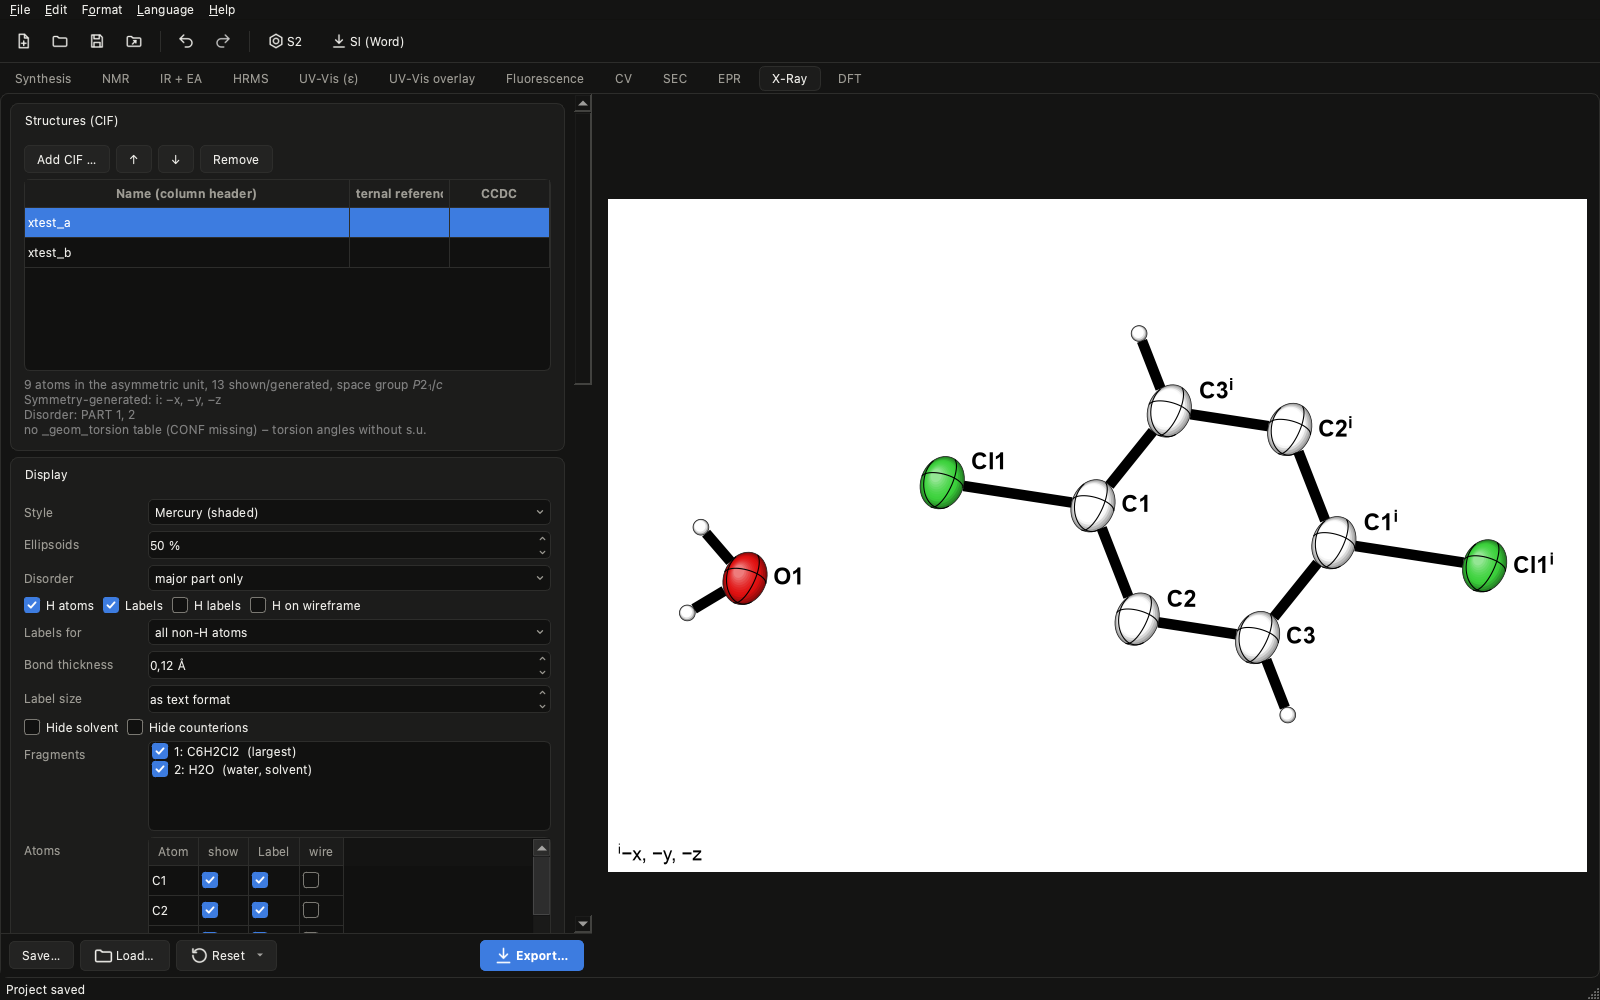
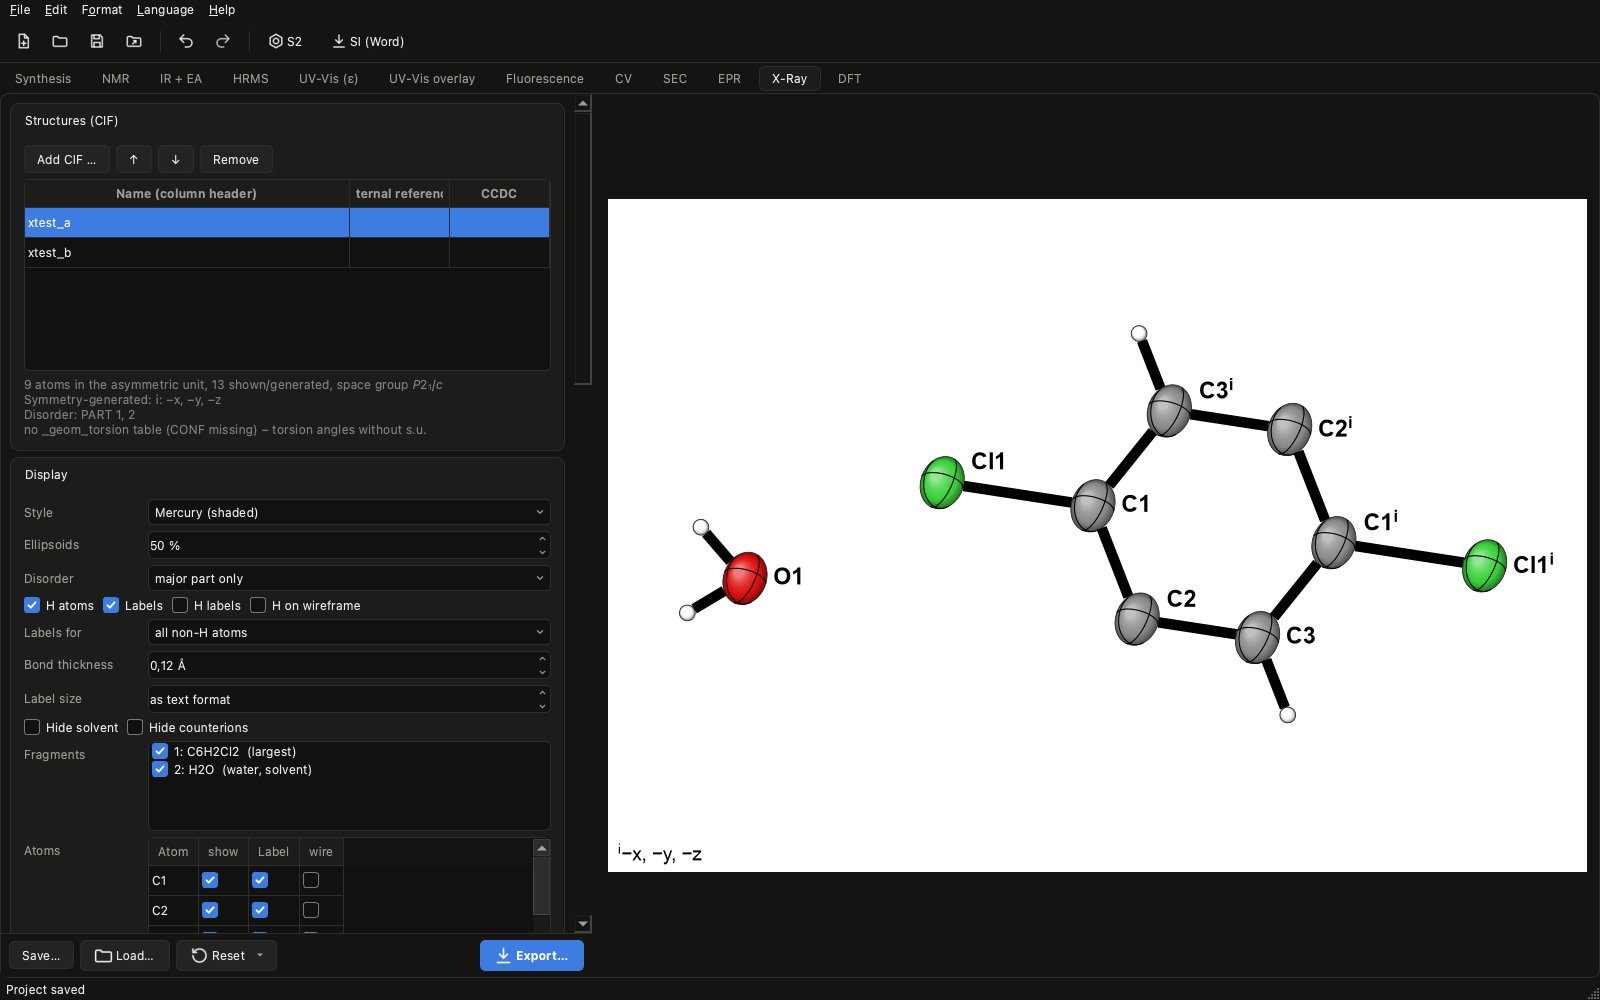
Ball-and-stick styles rebuilt after the user's reference images (shadow rim + highlight, rods into spheres, highlight streak); Mercury keeps grey carbon

diff --git a/uvvis_xray.py b/uvvis_xray.py
@@ -317,8 +317,6 @@ BOND_TOL = 0.45
 
 
 def default_color(el, style=None):
-    if style == "mercury" and el == "C":           # Mercury-Ellipsoide: Kohlenstoff weiß (grau schattiert)
-        return "#FFFFFF"
     if el in OLEX2_COLORS:
         return OLEX2_COLORS[el]
     if el in METALS:
@@ -1420,36 +1418,38 @@ def shade_colors(color, n):
 STYLES = ("mercury", "flat", "ballstick", "depth")
 BALL_STYLES = ("ballstick", "depth")      # Kugel-Stab: Kugeln nach Element statt Ellipsoiden, Stäbe in Atomfarben
 DEPTH_A = 6.0                             # Tiefe (Å), über die der Stil „depth“ voll aufhellt
-# Stab als Zylinder: übereinanderliegende Linien abnehmender Breite, Rand dunkel -> Mitte hell (Anteil, Helligkeit)
-ROD_LAYERS = ((1.0, -0.45), (0.86, -0.25), (0.7, 0.0), (0.52, 0.18), (0.34, 0.36), (0.18, 0.55))
+DEPTH_MAX = 0.6                           # … bis 60 % zum Weiß
+# Nachbau der Vorlagen: Kugel = Schattenrand unten rechts (äußere Schichten, zum Licht hin verkleinert), Grundfarbe,
+# Glanzpunkt oben links. Je Schicht (Anteil am Radius, Versatz zum Licht in r, Art, Wert): "tone" = Grundfarbe × (1 + Wert),
+# "blend" = Grundfarbe → Weiß um Wert.
+SPHERE_SPEC = {
+    "ballstick": ([(1.0 - 0.025 * i, 0.025 * i * 1.1, "tone", -0.6 + 0.075 * i) for i in range(9)]
+                  + [(0.34 - 0.04 * i, 0.42, "blend", 0.1 + 0.13 * i) for i in range(7)]),
+    "depth": ([(1.0 - 0.045 * i, 0.045 * i * 0.8, "tone", -0.45 + 0.05625 * i) for i in range(9)]
+              + [(0.32 - 0.06 * i, 0.36, "blend", 0.06 + 0.07 * i) for i in range(4)]),
+}
+# Stab = Zylinder aus übereinanderliegenden Linien (Anteil der Stabbreite, Versatz zum Licht in Stabbreiten, Art, Wert):
+# dunkler Rand, Schattenseite, Grundfarbe, schmaler Glanzstreifen an der Lichtseite
+ROD_SPEC = {
+    "ballstick": ((1.0, 0.0, "tone", -0.8), (0.92, 0.0, "tone", -0.32), (0.84, 0.02, "tone", -0.18),
+                  (0.74, 0.05, "tone", -0.07), (0.62, 0.08, "tone", 0.0), (0.16, 0.3, "blend", 0.85)),
+    "depth": ((1.0, 0.0, "tone", -0.38), (0.86, 0.03, "tone", -0.22), (0.72, 0.06, "tone", -0.1),
+              (0.56, 0.09, "tone", 0.0), (0.3, 0.16, "blend", 0.18)),
+}
+ROD_W = {"ballstick": 0.2, "depth": 0.36}           # Stabdicke (Å) wie in den Vorlagen
+BALL_R = {"ballstick": 0.45, "depth": 0.42}         # Kugelradius = Faktor × kovalenter Radius
 
 
-def ball_radius(el):
+def ball_radius(el, style="ballstick"):
     """Kugelradius im Kugel-Stab-Modell (Å): proportional zum kovalenten Radius, H nicht zu klein."""
-    return max(0.2, 0.42 * COV.get(el, 0.76))
+    return max(0.2, BALL_R.get(style, 0.45) * COV.get(el, 0.76))
 
 
-def gloss_colors(color, n):
-    """Glänzende Kugel (wie IboView/CYLview): dunkler Rand, Grundfarbe, kräftiger weißer Glanzpunkt oben links."""
-    base = np.array(to_rgb(color))
-    out = []
-    for t in np.linspace(0, 1, n):
-        if t < 0.45:
-            c = base * (0.42 + 0.58 * t / 0.45)
-        else:
-            c = base + (1 - base) * 0.92 * ((t - 0.45) / 0.55) ** 2.2
-        out.append(tuple(np.clip(c, 0, 1)))
-    return out
-
-
-def matte_colors(color, n, fog=0.0):
-    """Matte Kugel mit Tiefe: weicher Verlauf, nach hinten zum Weiß hin aufgehellt (fog 0 … 1)."""
-    base = np.array(to_rgb(color))
-    out = []
-    for t in np.linspace(0, 1, n):
-        c = base * (0.7 + 0.3 * t / 0.4) if t < 0.4 else base + (1 - base) * 0.32 * ((t - 0.4) / 0.6) ** 1.5
-        out.append(tuple(np.clip(c + (1 - c) * fog, 0, 1)))
-    return out
+def spec_color(base, kind, val, fog=0.0):
+    base = np.array(to_rgb(base))
+    c = base * (1 + val) if kind == "tone" else base + (1 - base) * val
+    c = np.clip(c, 0, 1)
+    return tuple(np.clip(c + (1 - c) * fog, 0, 1))
 
 
 def fogged(color, fog):
@@ -1503,9 +1503,11 @@ def wire_color(color):
     return "#9a9a9a" if 0.299 * r + 0.587 * g + 0.114 * b > 0.85 else color
 
 
-def _half(xs, ys, half):
-    """Hälfte einer Bindung (0 = zum ersten Atom, 1 = zum zweiten)."""
-    xm, ym = (xs[0] + xs[1]) / 2, (ys[0] + ys[1]) / 2
+def _half(xs, ys, half, overlap=0.0):
+    """Hälfte einer Bindung (0 = zum ersten Atom, 1 = zum zweiten); overlap (Anteil der Länge) über die Mitte hinaus,
+    damit zwischen zwei Stabhälften keine Naht sichtbar ist."""
+    f = 0.5 + overlap if half == 0 else 0.5 - overlap
+    xm, ym = xs[0] + f * (xs[1] - xs[0]), ys[0] + f * (ys[1] - ys[0])
     return ([xs[0], xm], [ys[0], ym]) if half == 0 else ([xm, xs[1]], [ym, ys[1]])
 
 
@@ -1543,8 +1545,9 @@ class XrayFigure:
         self.style = opts.get("style", "mercury")
         self.ball = self.style in BALL_STYLES
         # Bindungsdicke in Å (Mercury: Zylinder); Kugel-Stab: kräftige Stäbe
-        self.bond_w = float(opts.get("bond_w", 0.08)) * (2.6 if self.ball else 1.0)
-        self.bond_fac = {}                                       # Linie -> Anteil der Stabbreite (schattierte Stäbe)
+        self.bond_w = ROD_W[self.style] if self.ball else float(opts.get("bond_w", 0.08))
+        self.bond_fac, self.bond_off, self.bond_ovl = {}, {}, {}  # Linie -> Anteil der Stabbreite / Versatz (Å) / Überlappung
+        self.atom_rods = {}                                      # Kugel-Stab: Atom -> Linien seiner Stabhälften
         self.lw_edge = max(0.4, 0.6 * sc)
         self.atom_art, self.bond_art, self.sel_art, self.bond_lines = {}, [], [], {}
         self.auto_pos = {}
@@ -1608,13 +1611,17 @@ class XrayFigure:
             if it["k"] in self.wire:                       # Drahtmodell: kein Ellipsoid, kleiner Klickbereich
                 it.update(w=0.24, h=0.24, ang=0.0, iso=True, kind="wire", curves=[])
             elif self.ball:                                # Kugel-Stab: Kugel nach Element, keine Hauptachsen
-                r = ball_radius(self.mol.atoms[it["k"]]["el"])
+                r = ball_radius(self.mol.atoms[it["k"]]["el"], self.style)
                 it.update(w=2 * r, h=2 * r, ang=0.0, iso=True, curves=[])
         scene["by_k"] = {it["k"]: it for it in scene["atoms"]}
         return scene
 
     def _bond_xy(self, a, b):
         A, B = self.scene["by_k"][a], self.scene["by_k"][b]
+        if self.ball and a not in self.wire and b not in self.wire:
+            # Kugel-Stab: Stab von Mitte zu Mitte, die Kugel verdeckt das Ende (jede Hälfte liegt direkt unter ihrem
+            # Atom, siehe _zorders) – sonst stehen die Ecken dicker Stäbe über den Kugelrand
+            return [A["x"], B["x"]], [A["y"], B["y"]]
         dx, dy = B["x"] - A["x"], B["y"] - A["y"]
         L = math.hypot(dx, dy)
         ra = 0.0 if A.get("kind") == "wire" else _radius_along(A, dx, dy)
@@ -1631,10 +1638,10 @@ class XrayFigure:
         base = _ellipse_verts(it["x"], it["y"], it["w"], it["h"], it["ang"])
         if self.style == "flat":
             return [base, base]
-        if self.style == "ballstick":                      # Glanzpunkt kleiner und weiter oben links
-            return shade_layers(it, 16, shift=0.8, smin=0.1) + [base]
-        if self.style == "depth":
-            return shade_layers(it, 10, shift=0.45, smin=0.3) + [base]
+        if self.ball:
+            r = it["w"] / 2
+            return [_ellipse_verts(it["x"] + LIGHT[0] * d * r, it["y"] + LIGHT[1] * d * r, 2 * r * s, 2 * r * s, 0.0)
+                    for s, d, _, _ in SPHERE_SPEC[self.style]] + [base]
         n = 6 if it.get("kind") == "H" else 12
         return shade_layers(it, n) + [base]
 
@@ -1643,13 +1650,24 @@ class XrayFigure:
         vordersten Atom 55 % zum Weiß – kleine Moleküle bleiben so fast unverändert, große bekommen Tiefe."""
         if self.style != "depth":
             return 0.0
-        return 0.55 * min(1.0, max(0.0, (self._zmax - z) / DEPTH_A))
+        return DEPTH_MAX * min(1.0, max(0.0, (self._zmax - z) / DEPTH_A))
+
+    def _rod(self, xs, ys, off):
+        """Stablinie um off (Å) senkrecht zur Bindung zur Lichtseite versetzt (Glanzstreifen oben links)."""
+        if not off or not np.isfinite(xs).all():
+            return xs, ys
+        dx, dy = xs[1] - xs[0], ys[1] - ys[0]
+        L = math.hypot(dx, dy) or 1.0
+        nx, ny = -dy / L, dx / L
+        if nx * LIGHT[0] + ny * LIGHT[1] < 0:
+            nx, ny = -nx, -ny
+        return [x + nx * off for x in xs], [y + ny * off for y in ys]
 
     def _build(self):
         ax, colors = self.ax, self.opts.get("colors") or {}
         mercury = self.style == "mercury"
         zs = [it["z"] for it in self.scene["atoms"]] or [0.0]
-        self._zmax, self._zspan = max(zs), max(zs) - min(zs)
+        self._zmax = max(zs)
         for it in self.scene["atoms"]:
             a = self.mol.atoms[it["k"]]
             col = colors.get(a["el"]) or default_color(a["el"], self.style)
@@ -1660,10 +1678,10 @@ class XrayFigure:
                 self.atom_art[it["k"]] = (p, [])
                 continue
             nfill = len(verts) - 1
-            if self.style == "ballstick":
-                faces, edge, elw = gloss_colors(col, nfill), (0.25, 0.25, 0.25), 0.45 * self.lw_edge
-            elif self.style == "depth":
-                faces, edge, elw = matte_colors(col, nfill, self._fog(it["z"])), "none", 0.0
+            if self.ball:                                  # wie die Vorlagen: IboView mit feinem Umriss, Tiefe ohne
+                fog = self._fog(it["z"])
+                faces = [spec_color(col, kd, v, fog) for _, _, kd, v in SPHERE_SPEC[self.style]]
+                edge, elw = ((0.1, 0.1, 0.1), 0.45 * self.lw_edge) if self.style == "ballstick" else ("none", 0.0)
             elif mercury:
                 faces, edge, elw = shade_colors(col, nfill), (0.1, 0.1, 0.1), 0.8 * self.lw_edge
             else:
@@ -1695,15 +1713,20 @@ class XrayFigure:
                 fog = self._fog(self.scene["bonds"][n][2])
                 for half, k in ((0, a), (1, b)):
                     el = self.mol.atoms[k]["el"]
-                    base = np.array(to_rgb(colors.get(el) or default_color(el, self.style)))
-                    for fac, lt in ROD_LAYERS:
-                        c = base * (1 + lt) if lt < 0 else base + (1 - base) * lt
-                        ln = Line2D(*_half(xs, ys, half), color=fogged(c, fog), lw=self.lw_bond * fac,
-                                    solid_capstyle="butt")
+                    base = colors.get(el) or default_color(el, self.style)
+                    for fac, off, kd, v in ROD_SPEC[self.style]:
+                        # nur innere Schichten überlappen in der Mitte: der dunkle Außenrand der oberen Hälfte endet
+                        # genau dort, sonst bliebe über den hellen Schichten der anderen Hälfte eine Naht
+                        ov = 0.0 if fac >= 1.0 else 0.02
+                        ln = Line2D(*self._rod(*_half(xs, ys, half, ov), off * self.bond_w), color=spec_color(base, kd, v, fog),
+                                    lw=self.lw_bond * fac, solid_capstyle="butt")
                         ax.add_line(ln)
                         self.bond_art.append((a, b, ln, half))
                         self.bond_fac[ln] = fac
+                        self.bond_ovl[ln] = ov
+                        self.bond_off[ln] = off * self.bond_w
                         self.bond_lines[n].append(ln)
+                        self.atom_rods.setdefault(k, []).append(ln)
                 continue
             ln = Line2D(xs, ys, color="black", lw=self.lw_bond, solid_capstyle="butt")
             ax.add_line(ln)
@@ -1721,13 +1744,20 @@ class XrayFigure:
     def _zorders(self):
         """Zeichenreihenfolge nach Tiefe (hinten zuerst); Bindungen zwischen ihren Atomen."""
         items = [(it["z"], "a", it["k"]) for it in self.scene["atoms"]]
-        items += [(z, "b", n) for n, (_, _, z) in enumerate(self.scene["bonds"])]
+        # Kugel-Stab: Stabhälften gehören zu ihrem Atom (direkt darunter gezeichnet), Drahtmodell-Bindungen wie sonst
+        items += [(z, "b", n) for n, (a, b, z) in enumerate(self.scene["bonds"])
+                  if not (self.ball and self.bond_lines.get(n) and self.bond_lines[n][0] in self.bond_fac)]
         items.sort(key=lambda t: (t[0], t[1] == "a"))
         self.order = []
+        step = 40 / max(1, len(items))
         for rank, (_, kind, key) in enumerate(items):
-            zo = 2 + 40 * rank / max(1, len(items))
+            zo = 2 + step * rank
             if kind == "a":
                 p, lines = self.atom_art[key]
+                rods = self.atom_rods.get(key, ())
+                for j, ln in enumerate(rods):                # zwischen dem vorigen Element und dem Atom
+                    ln.set_zorder(zo - 0.5 * step + 0.4 * step * j / max(1, len(rods)))
+                    self.order.append(ln)
                 p.set_zorder(zo)
                 self.order.append(p)
                 for ln in lines:
@@ -1750,7 +1780,8 @@ class XrayFigure:
                 ln.set_data(xs, ys)
         for a, b, ln, half in self.bond_art:
             xs, ys = self._bond_xy(a, b)
-            ln.set_data(*(_half(xs, ys, half) if half is not None else (xs, ys)))
+            seg = _half(xs, ys, half, self.bond_ovl.get(ln, 0.0)) if half is not None else (xs, ys)
+            ln.set_data(*self._rod(*seg, self.bond_off.get(ln, 0.0)))
         for k, e in self.sel_art:
             it = self.scene["by_k"][k]
             e.set_center((it["x"], it["y"]))

diff --git a/uvvis_gui.py b/uvvis_gui.py
@@ -4222,15 +4222,15 @@ def selftest(outdir, with_isnet=False):
             assert F_s.style == sty_
             c_it = next(i_ for i_ in F_s.scene["atoms"] if i_["el"] == "C")
             if sty_ in XRAY.BALL_STYLES:
-                assert abs(c_it["w"] - 2 * XRAY.ball_radius("C")) < 1e-9 and c_it["w"] == c_it["h"] and not c_it["curves"]
-                assert sorted(set(F_s.bond_fac.values())) == sorted(f_ for f_, _ in XRAY.ROD_LAYERS)
+                assert abs(c_it["w"] - 2 * XRAY.ball_radius("C", sty_)) < 1e-9 and c_it["w"] == c_it["h"] and not c_it["curves"]
+                assert sorted(set(F_s.bond_fac.values())) == sorted(r_[0] for r_ in XRAY.ROD_SPEC[sty_])
+                assert F_s.bond_w == XRAY.ROD_W[sty_] and max(F_s.bond_off.values()) > 0          # Glanz zur Lichtseite
             if sty_ == "mercury":
-                fc_ = F_s.atom_art[c_it["k"]][0].get_facecolors()
-                assert min(fc_[-2][:3]) > 0.9 and XRAY.default_color("C", "mercury") == "#FFFFFF"   # Glanz fast weiß
+                assert XRAY.default_color("C", "mercury") == XRAY.OLEX2_COLORS["C"]               # C grau wie bisher
                 assert all(a_.get_fontweight() == "bold" for a_ in F_s.ann_items.values())
                 assert all(ln_.get_color() == "black" for _, _, ln_, h_ in F_s.bond_art if h_ is None)
             if sty_ == "depth":
-                assert F_s._fog(F_s._zmax) == 0.0 and abs(F_s._fog(F_s._zmax - XRAY.DEPTH_A - 1) - 0.55) < 1e-9
+                assert F_s._fog(F_s._zmax) == 0.0 and abs(F_s._fog(F_s._zmax - XRAY.DEPTH_A - 1) - XRAY.DEPTH_MAX) < 1e-9
             f_s = t_x.export_to(out / f"xray_style_{sty_}")
             assert all(f_.exists() and f_.stat().st_size > 500 for f_ in f_s if f_.suffix in (".pdf", ".svg", ".png"))
         w.xray_state["style"] = "mercury"

diff --git a/CLAUDE.md b/CLAUDE.md
@@ -81,10 +81,11 @@ Fluoreszenz, CV, SEC, EPR, X-Ray (CIF) und DFT (xyz); SI-Abschnitt als Word-Date
   von R·U·Rᵀ. Aussehen Standard **wie Mercury** (Nutzerwunsch): schattierte Schichten (`shade_layers`, Licht oben
   links, matt, Schichten immer innerhalb des Umrisses, keine Clip-Pfade), H-Radius 0.09 Å, Bindungsdicke in Å
   (`bond_w`, Standard 0.12 seit 1.26, skaliert mit dem Zoom wie Mercurys Zylinder); seit 1.26 nach Nutzervorlage
-  C weiß (grau schattiert, `default_color(el, style)`), Bindungen schwarz, Labels fett ohne Rand; „flach“ = Olex2 (fett,
-  weißer Rand). Kugel-Stil (`BALL_STYLES`): „ballstick“ glänzend wie IboView (`gloss_colors`), „depth“ matt mit Aufhellung
-  nach hinten (`DEPTH_A` = 6 Å bis 55 %); Kugelradius `ball_radius` (0.42 × kovalent, H ≥ 0.2 Å), Stäbe 2.6 × `bond_w`
-  als Zylinder aus `ROD_LAYERS`, je Hälfte in Atomfarbe. Messen/Ausrichten gemeinsam für X-Ray und DFT (`MeasureAlign`;
+  Bindungen schwarz, Labels fett ohne Rand – Elementfarben bleiben (C grau, Nutzerwunsch); „flach“ = Olex2 (fett,
+  weißer Rand). Kugel-Stil (`BALL_STYLES`, nach Vorlagebildern des Nutzers): „ballstick“ wie IboView (Schattenrand unten
+  rechts, Glanzpunkt, feiner Umriss, dünne Stäbe 0.2 Å mit Glanzstreifen zur Lichtseite), „depth“ matt mit dicken Stäben
+  (0.36 Å) und Aufhellung nach hinten (`DEPTH_A` = 6 Å bis `DEPTH_MAX`); Schichten in `SPHERE_SPEC`/`ROD_SPEC`, Radius
+  `ball_radius(el, style)` (Faktor × kovalent, H ≥ 0.2 Å); `bond_w` gilt dort nicht (`ROD_W`). Messen/Ausrichten gemeinsam für X-Ray und DFT (`MeasureAlign`;
   DFT: `MEASURE_ESD = False`, Klick = Auswahl, im Nummerier-Modus = Nummer).
   Labels/Atome je Atom über `label_on`/`hidden_atoms` (Schlüssel Label|Operation). Tabellen englisch beschriftet, Zahlen exakt wie in der CIF, echtes Minus (U+2212).
   Drahtmodell (`wire`, Atom-Schlüssel): Bindung → kleinere Seite (`Molecule.substituent`), in Ringen das Ringsystem hinter

diff --git a/CHANGELOG.de.md b/CHANGELOG.de.md
@@ -9,11 +9,12 @@
   (Werte aus der Geometrie), Bindungsrichtung, Ebene von vorn, schrittweise drehen, wenden und ChemDraw-Vorlage. Beide
   Tabs nutzen denselben Code und verhalten sich gleich.
 - **Neue Stile für Strukturen** im X-Ray- und DFT-Tab (Vorschau, PDF/SVG/PNG, Word): **Kugel-Stab, glänzend** (wie
-  IboView: glänzende Kugeln, Stäbe in Atomfarben) und **Kugel-Stab mit Tiefe** (weiter hinten liegende Atome heller).
+  IboView: glänzende Kugeln mit Schattenrand und Glanzpunkt, dünne Stäbe in Atomfarben mit Glanzstreifen) und **Kugel-Stab
+  mit Tiefe** (matte Kugeln, dicke Stäbe, weiter hinten liegende Atome heller).
 
 ### Geändert
-- **Mercury-Stil** sieht jetzt aus wie Mercury-Abbildungen: Kohlenstoff weiß mit grauer Schattierung, schwarze
-  Bindungen, fette Labels; Standard-Bindungsdicke 0.12 Å (bestehende Projekte behalten ihre Einstellung).
+- **Mercury-Stil** sieht jetzt aus wie Mercury-Abbildungen: schwarze Bindungen und fette Labels; Standard-Bindungsdicke
+  0.12 Å (bestehende Projekte behalten ihre Einstellung). Elementfarben unverändert.
 - **Neuer Name: Elucida** (früher Spectravolt). Das Programm ist von UV-Vis und Elektrochemie zu einer ganzen
   Charakterisierungs-Suite gewachsen (Synthese, NMR, IR, HRMS, UV-Vis, Fluoreszenz, CV, SEC, EPR, Röntgenstruktur, DFT).
   Einstellungen, zuletzt geöffnete Projekte und der Datenordner (z. B. das Modell zur Freistellung) werden beim ersten

diff --git a/CHANGELOG.md b/CHANGELOG.md
@@ -9,11 +9,12 @@
   from the geometry), bond direction, plane face-on, step rotation, flip and ChemDraw template. Both tabs share the
   same code, so they behave identically.
 - **New structure styles** in the X-Ray and DFT tabs (preview, PDF/SVG/PNG, Word): **ball and stick, glossy** (like
-  IboView: shiny spheres, rods coloured by atom) and **ball and stick with depth** (atoms further back lighter).
+  IboView: shiny spheres with shadow rim and highlight, thin rods coloured by atom with a highlight streak) and **ball and
+  stick with depth** (matte spheres, thick rods, atoms further back lighter).
 
 ### Changed
-- **Mercury style** now looks like Mercury figures: carbon white with grey shading, black bonds, bold labels; default
-  bond thickness 0.12 Å (existing projects keep their setting).
+- **Mercury style** now looks like Mercury figures: black bonds and bold labels; default bond thickness 0.12 Å
+  (existing projects keep their setting). Element colours unchanged.
 - **New name: Elucida** (formerly Spectravolt). The program has grown from UV-Vis and electrochemistry into a full
   characterization suite (synthesis, NMR, IR, HRMS, UV-Vis, fluorescence, CV, SEC, EPR, X-ray, DFT). Settings, recent
   projects and the data folder (e.g. the background-removal model) are taken over automatically on the first start;

diff --git a/README.md b/README.md
@@ -258,8 +258,7 @@ Word exports. The size stays 11 pt, because "two figures per page" is calculated
   column in the tables). Elucida reads the CIF itself (cell, coordinates, U_iso/U_ij, occupancy, PART, symmetry
   operations, `_geom_bond`/`_geom_angle`/`_geom_torsion`); no extra software needed.
 - **ORTEP figure in the Mercury style:** shaded displacement ellipsoids at 50 % probability (adjustable), projected
-  exactly, with the principal ellipses; carbon white with grey shading, black bonds, bold labels (draggable), H atoms as
-  small shaded spheres. Further styles (also in PDF/SVG/PNG and Word): flat Olex2 style; **ball and stick, glossy**
+  exactly, with the principal ellipses; black bonds, bold labels (draggable), H atoms as small shaded spheres. Further styles (also in PDF/SVG/PNG and Word): flat Olex2 style; **ball and stick, glossy**
   (like IboView, rods coloured by atom); **ball and stick with depth** (atoms further back lighter). Single atoms (e.g. individual H) can be hidden and labels switched **per atom**
   (atom list or double-click on the atom). **Drag to rotate**,
   right button to pan, mouse wheel to zoom; the view is stored per structure, **Reset view** goes back to the

diff --git a/README.de.md b/README.de.md
@@ -266,8 +266,8 @@ Word-Exporte. Die Größe bleibt 11 pt, weil „zwei Abbildungen je Seite“ mit
   (eine Spalte in den Tabellen). Elucida liest die CIF selbst (Zelle, Koordinaten, U_iso/U_ij, Besetzung, PART,
   Symmetrieoperationen, `_geom_bond`/`_geom_angle`/`_geom_torsion`); keine weitere Software nötig.
 - **ORTEP-Abbildung im Mercury-Stil:** schattierte Schwingungsellipsoide mit 50 % Aufenthaltswahrscheinlichkeit
-  (einstellbar), exakt projiziert, mit den Hauptachsen-Ellipsen; Kohlenstoff weiß mit grauer Schattierung, schwarze
-  Bindungen, fette Labels (verschiebbar), H-Atome als kleine schattierte Kugeln. Weitere Stile (auch in PDF/SVG/PNG und
+  (einstellbar), exakt projiziert, mit den Hauptachsen-Ellipsen; schwarze Bindungen, fette Labels (verschiebbar), H-Atome
+  als kleine schattierte Kugeln. Weitere Stile (auch in PDF/SVG/PNG und
   Word): flacher Olex2-Stil; **Kugel-Stab, glänzend** (wie IboView, Stäbe in Atomfarben); **Kugel-Stab mit Tiefe**
   (weiter hinten liegende Atome heller). Einzelne Atome (z. B. einzelne H) lassen
   sich ausblenden und Labels **je Atom** an-/abschalten (Atomliste oder Doppelklick auf das Atom).
